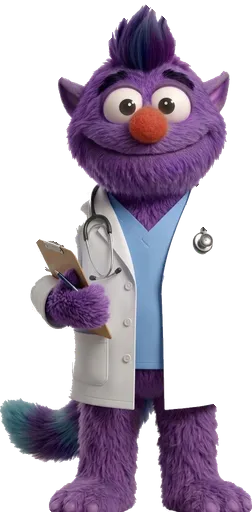
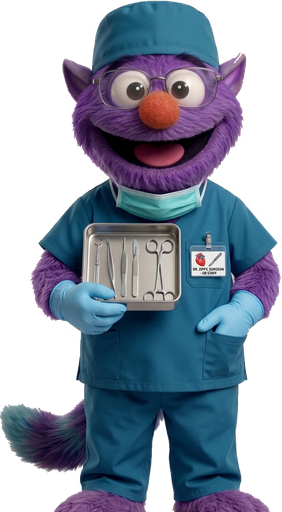
Swap doctor Zippy art, rename classroom NPC, fix multiplayer search, sync THANK_YOU threshold
- Replace the doctor costume pose with the newer zippy-doc2 art via the existing
  optimize-zippy.mjs pipeline.
- Rename classroom NPC "Ms. Rowan" -> "Mr. Zippy" (+ matching emoji).
- Fix multiplayer search: find_public_room returns a bare composite row, so a
  "no match" result can come back as an all-null object instead of a real null
  — the old `!data` check missed that and silently tried to join `undefined`.
  Now checks for an actual room code, and surfaces the error right under the
  Search button instead of only near the join-code field.
- Add a quest-claim celebration (modal + confetti) to CelebrationHost, matching
  the existing level-up/badge pattern.
- Reconcile THANK_YOU's Python movement threshold (0.25) with the TS engine's
  already-raised 0.85 (2026-07-14 confusor fix) — the Python mirror had drifted
  out of sync with the shipped app.

diff --git a/web/src/components/shared/CelebrationHost.tsx b/web/src/components/shared/CelebrationHost.tsx
@@ -9,7 +9,8 @@ import { Zippy } from '@/components/shared/Zippy';
 
 type Celebration =
   | { kind: 'level'; level: number }
-  | { kind: 'badge'; badgeId: string };
+  | { kind: 'badge'; badgeId: string }
+  | { kind: 'quest'; title: string; xpReward: number; signsReward: number };
 
 // Mounted once inside the authed app tree. Watches the progress store for level-ups and newly
 // earned badges — both of which the app otherwise applies silently — and shows a one-at-a-time
@@ -23,6 +24,7 @@ type Celebration =
 export function CelebrationHost() {
   const level = useUserStore((s) => s.level);
   const badges = useUserStore((s) => s.badges);
+  const dailyQuests = useUserStore((s) => s.dailyQuests);
   const { user } = useAuth();
 
   const { burst, bigCelebration } = useConfetti();
@@ -34,6 +36,7 @@ export function CelebrationHost() {
   // state the app booted with.
   const prevLevel = useRef<number | null>(null);
   const prevBadges = useRef<Set<string> | null>(null);
+  const prevClaimedQuests = useRef<Set<string> | null>(null);
   const armed = useRef(false);
   const initialized = useRef(false);
   const lastUserId = useRef<string | undefined>(undefined);
@@ -51,6 +54,9 @@ export function CelebrationHost() {
     if (!initialized.current || uid !== lastUserId.current) {
       prevLevel.current = useUserStore.getState().level;
       prevBadges.current = new Set(useUserStore.getState().badges);
+      prevClaimedQuests.current = new Set(
+        useUserStore.getState().dailyQuests.filter((q) => q.claimed).map((q) => q.id)
+      );
     }
     initialized.current = true;
     lastUserId.current = uid;
@@ -63,10 +69,14 @@ export function CelebrationHost() {
   useEffect(() => {
     if (prevLevel.current === null) prevLevel.current = level;
     if (prevBadges.current === null) prevBadges.current = new Set(badges);
+    if (prevClaimedQuests.current === null) {
+      prevClaimedQuests.current = new Set(dailyQuests.filter((q) => q.claimed).map((q) => q.id));
+    }
 
     if (!armed.current) {
       prevLevel.current = level;
       prevBadges.current = new Set(badges);
+      prevClaimedQuests.current = new Set(dailyQuests.filter((q) => q.claimed).map((q) => q.id));
       return;
     }
 
@@ -75,12 +85,18 @@ export function CelebrationHost() {
     for (const id of badges) {
       if (!prevBadges.current.has(id)) next.push({ kind: 'badge', badgeId: id });
     }
+    for (const quest of dailyQuests) {
+      if (quest.claimed && !prevClaimedQuests.current.has(quest.id)) {
+        next.push({ kind: 'quest', title: quest.title, xpReward: quest.xpReward, signsReward: quest.signsReward });
+      }
+    }
 
     prevLevel.current = level;
     prevBadges.current = new Set(badges);
+    prevClaimedQuests.current = new Set(dailyQuests.filter((q) => q.claimed).map((q) => q.id));
 
     if (next.length) setQueue((q) => [...q, ...next]);
-  }, [level, badges]);
+  }, [level, badges, dailyQuests]);
 
   // Fire confetti whenever a new celebration reaches the front of the queue.
   useEffect(() => {
@@ -125,7 +141,7 @@ export function CelebrationHost() {
                 <h2 className="font-bold text-2xl mb-1">Level {current.level}</h2>
                 <p className="text-z-gray-300 text-sm mb-5">{pickZippyLine('levelUp')}</p>
               </>
-            ) : (
+            ) : current.kind === 'badge' ? (
               <>
                 <Zippy expression="achievement" size="lg" priority className="mx-auto mb-3" />
                 <p className="text-xs font-bold uppercase tracking-widest text-z-yellow mb-1">
@@ -140,6 +156,18 @@ export function CelebrationHost() {
                   <p className="text-z-yellow text-xs mb-4">+{badge!.goldReward} 🪙</p>
                 )}
                 {badge!.goldReward === 0 && <div className="mb-4" />}
+              </>
+            ) : (
+              <>
+                <Zippy expression="achievement" size="lg" priority className="mx-auto mb-3" />
+                <p className="text-xs font-bold uppercase tracking-widest text-emerald-400 mb-1">
+                  Quest complete
+                </p>
+                <h2 className="font-bold text-2xl mb-3">{current.title}</h2>
+                <p className="text-sm mb-5 flex items-center justify-center gap-3">
+                  <span className="text-z-yellow font-semibold">+{current.xpReward} XP</span>
+                  <span className="text-z-purple-glow font-semibold">+{current.signsReward} 🤟</span>
+                </p>
               </>
             )}
             <button

diff --git a/web/src/pages/DuelPage.tsx b/web/src/pages/DuelPage.tsx
@@ -319,8 +319,12 @@ export function DuelPage({ onExit, autoHostRoomId, autoJoinCode }: Props) {
     setSearching(true);
     const { data, error } = await supabase.rpc('find_public_room', { p_mode: 'duel' });
     setSearching(false);
-    if (error || !data) { setCodeError('No open duels right now — try creating one!'); return; }
-    await joinRoom((data as { code: string }).code);
+    // find_public_room returns a bare composite row (not setof), so a "no match" result can come
+    // back as PostgREST's all-null composite object rather than a JS null — `!data` alone misses
+    // that case and used to fall through to joinRoom(undefined).
+    const code = (data as { code?: string } | null)?.code;
+    if (error || !code) { setCodeError('No open duels right now — try creating one!'); return; }
+    await joinRoom(code);
   };
 
   const handleGuess = (signId: string) => {
@@ -560,6 +564,7 @@ export function DuelPage({ onExit, autoHostRoomId, autoJoinCode }: Props) {
                 whileTap={{ scale: 0.97 }}>
                 {searching ? 'Searching…' : '🔍 Search for a Match'}
               </motion.button>
+              {codeError && <p className="text-center text-z-red text-xs -mt-3">{codeError}</p>}
 
               <div className="w-full max-w-xs">
                 <p className="text-center text-z-gray-400 text-sm mb-2">— or join with a code —</p>
@@ -573,7 +578,6 @@ export function DuelPage({ onExit, autoHostRoomId, autoJoinCode }: Props) {
                     Join
                   </motion.button>
                 </div>
-                {codeError && <p className="text-center text-z-red text-xs mt-2">{codeError}</p>}
               </div>
             </motion.div>
           )}

diff --git a/web/src/pages/RoomPage.tsx b/web/src/pages/RoomPage.tsx
@@ -396,8 +396,12 @@ export function RoomPage({ onExit }: Props) {
     setSearching(true);
     const { data, error } = await supabase.rpc('find_public_room', { p_mode: 'room' });
     setSearching(false);
-    if (error || !data) { setCodeError('No open rooms right now — try creating one!'); return; }
-    await joinRoom((data as { code: string }).code);
+    // find_public_room returns a bare composite row (not setof), so a "no match" result can come
+    // back as PostgREST's all-null composite object rather than a JS null — `!data` alone misses
+    // that case and used to fall through to joinRoom(undefined).
+    const code = (data as { code?: string } | null)?.code;
+    if (error || !code) { setCodeError('No open rooms right now — try creating one!'); return; }
+    await joinRoom(code);
   };
 
   const startGame = () => {
@@ -525,6 +529,7 @@ export function RoomPage({ onExit }: Props) {
                 whileTap={{ scale: 0.97 }}>
                 {searching ? 'Searching…' : '🔍 Search for a Room'}
               </motion.button>
+              {codeError && <p className="text-center text-z-red text-xs -mt-3">{codeError}</p>}
 
               <div className="w-full max-w-xs">
                 <p className="text-center text-z-gray-400 text-sm mb-2">— or join with a code —</p>
@@ -538,7 +543,6 @@ export function RoomPage({ onExit }: Props) {
                     Join
                   </motion.button>
                 </div>
-                {codeError && <p className="text-center text-z-red text-xs mt-2">{codeError}</p>}
               </div>
             </motion.div>
           )}

diff --git a/web/src/data/stories.ts b/web/src/data/stories.ts
@@ -18,7 +18,7 @@ export interface StoryScript {
   npcName: string;
   npcEmoji: string;
   backgroundEmoji: string;
-  /** Dr. Reeves, Ms. Rowan, and the coffee-shop barista are still Zippy underneath — just dressed
+  /** Dr. Reeves, Mr. Zippy, and the coffee-shop barista are still Zippy underneath — just dressed
    *  for the part. When set, this costume art replaces npcEmoji everywhere the NPC appears
    *  (story screens, world map node icon). Omitted for stories Zippy narrates as himself. */
   npcCostume?: ZippyExpression;
@@ -268,8 +268,8 @@ export const CLASSROOM_STORY: StoryScript = {
   id: 'classroom-story',
   title: 'At School',
   description: 'Meet your teacher and make a new friend',
-  npcName: 'Ms. Rowan',
-  npcEmoji: '👩🏫',
+  npcName: 'Mr. Zippy',
+  npcEmoji: '👨🏫',
   npcCostume: 'teacher',
   backgroundEmoji: '🏫',
   lines: [

diff --git a/web/src/components/home/WorldMap.tsx b/web/src/components/home/WorldMap.tsx
@@ -154,7 +154,7 @@ export function WorldMap({ onSelectLesson, onStartStory }: Props) {
                 const isStoryNode = node.id === selectedWorld.storyId || STORIES.some((s) => s.id === node.id);
                 if (isStoryNode) {
                   const status = getNodeStatus(node.id, units);
-                  // Dr. Reeves / Ms. Rowan / the coffee-shop barista are Zippy in costume — show
+                  // Dr. Reeves / Mr. Zippy / the coffee-shop barista are Zippy in costume — show
                   // that art here too instead of the generic emoji, so the character who's
                   // actually waiting to talk to you is visible before you even tap in.
                   const npcCostume = STORIES.find((s) => s.id === node.id)?.npcCostume;

diff --git a/web/src/pages/StoryPage.tsx b/web/src/pages/StoryPage.tsx
@@ -36,7 +36,7 @@ const MOOD_EMOJI: Record<string, string> = {
 };
 
 // Zippy narrates the greetings + coffee stories. When he's the NPC we swap the emoji avatar for his
-// real expression art, chosen by the line's mood. Other stories' NPCs (Dr. Reeves, Ms. Rowan) keep
+// real expression art, chosen by the line's mood. Other stories' NPCs (Dr. Reeves, Mr. Zippy) keep
 // their own emoji — they aren't Zippy.
 const MOOD_ZIPPY: Record<string, ZippyExpression> = {
   neutral: 'teaching',

diff --git a/signs/thank_you.py b/signs/thank_you.py
@@ -42,6 +42,12 @@ THANK_YOU = Sign(
         direction=(0.0, 1.0),            # downward in image space (y grows downward)
         min_displacement_ratio=0.2,      # ~0.2 shoulder-widths of travel (real strokes are ~0.36)
         min_duration_s=0.4,
-        required=True, min_confidence=0.25),
+        # min_confidence raised 0.25->0.85 (2026-07-19): the TS engine (web/src/engine/signs/
+        # index.ts) was already raised to 0.85 on 2026-07-14 after a real calibration log showed a
+        # chin-touch confusor (tapping/resting near the chin without a full downward push)
+        # sustaining a false accept at 0.25 — this Python mirror was never updated to match,
+        # violating the "never diverge" rule (CLAUDE.md). Reconciled here; no independent Python
+        # calibration data justifies a different value.
+        required=True, min_confidence=0.85),
     orientation=OrientationReq(hand=DOMINANT, facing=PalmFacing.UP, required=False, min_confidence=0.25),
 )
